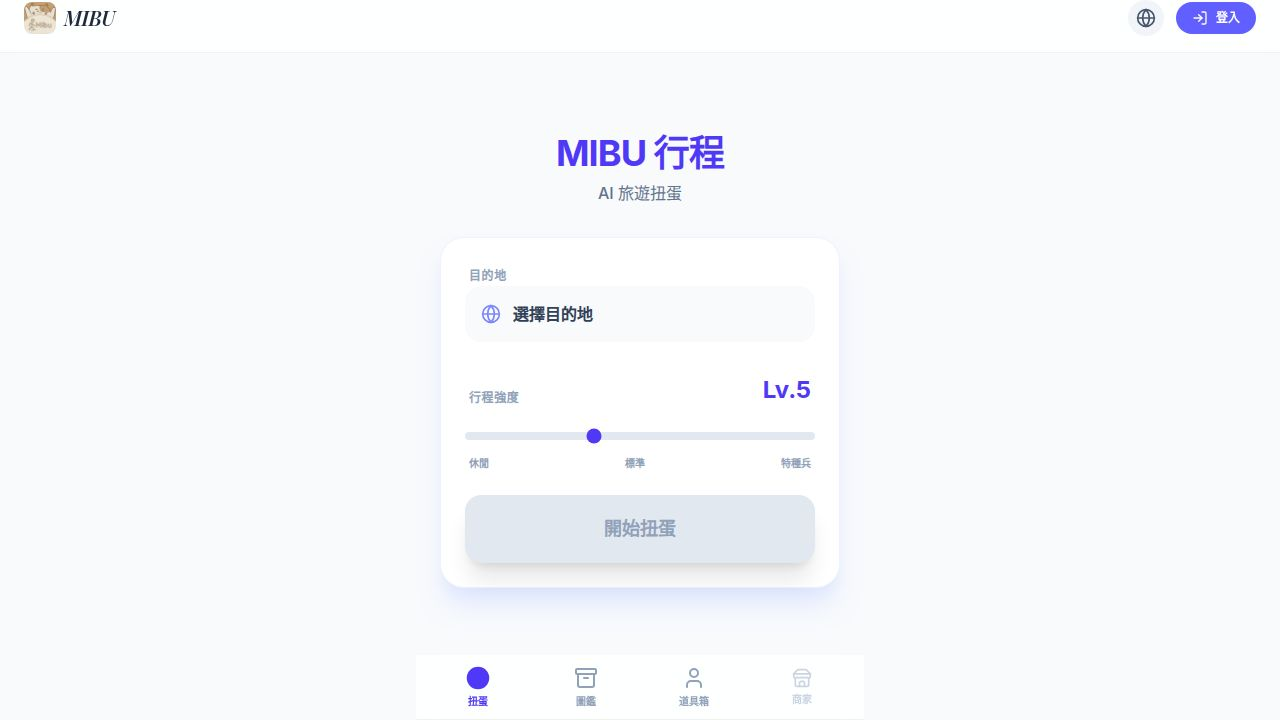
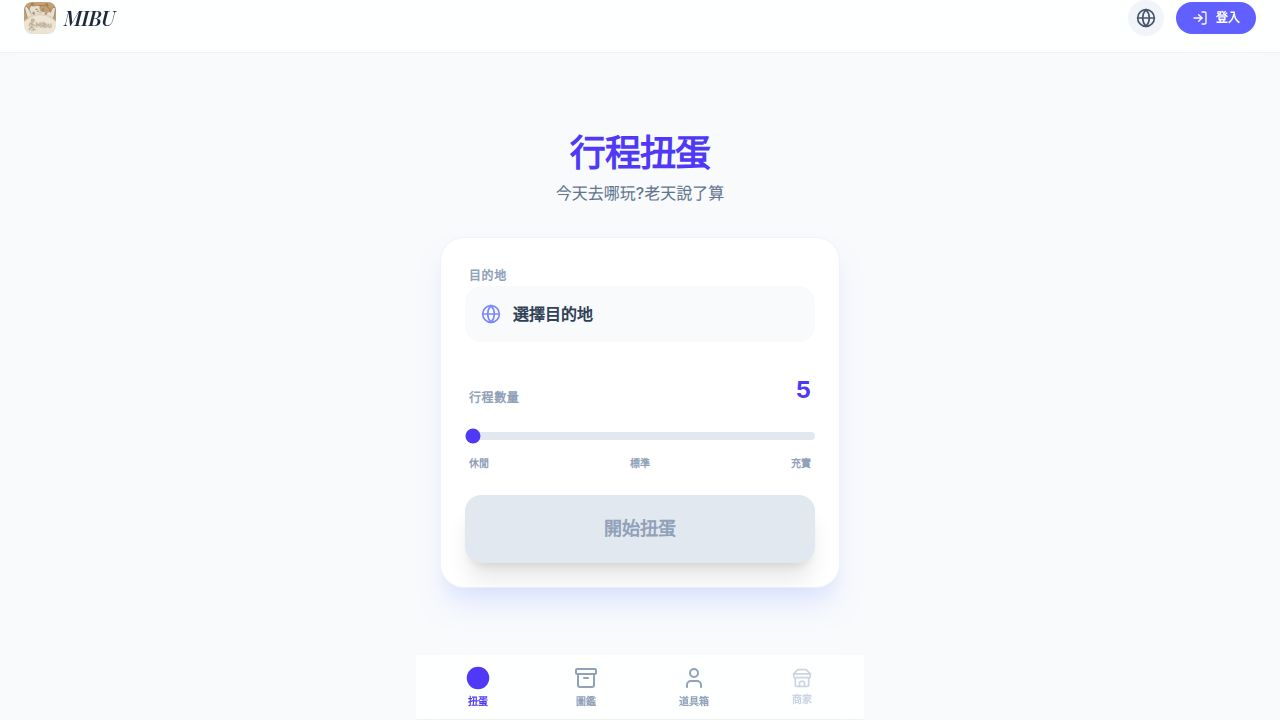
Update trip generator page with new title and search functionality
Refactor client-side components to update app subtitle, modify Google search queries and button text, remove level display, and ensure full content display.

Replit-Commit-Author: Agent
Replit-Commit-Session-Id: 73a976db-2ef8-459e-a913-7e0db93fce9d
Replit-Commit-Checkpoint-Type: full_checkpoint
Replit-Commit-Event-Id: 380fa3d4-4293-4dad-97e2-3b168c9b1e0a
Replit-Commit-Screenshot-Url: https://storage.googleapis.com/screenshot-production-us-central1/591965a7-25f6-479c-b527-3890b1193c21/73a976db-2ef8-459e-a913-7e0db93fce9d/64fPLFX
Replit-Helium-Checkpoint-Created: true

diff --git a/client/src/components/ResultList.tsx b/client/src/components/ResultList.tsx
@@ -24,7 +24,7 @@ export const ResultList: React.FC<ResultListProps> = ({ data, language, onResear
       <div className="mb-6 flex justify-between items-end">
         <div>
           <h2 className="text-3xl font-black text-slate-800">{getContent(data.meta.locked_district, language)}</h2>
-          <p className="text-slate-500 font-medium">{t.tripLevel.replace('{level}', data.meta.user_level.toString())}</p>
+          <p className="text-slate-500 font-medium">{data.meta.city}</p>
         </div>
         <div className="flex items-center gap-2">
           <div className="bg-indigo-100 text-indigo-700 px-3 py-1 rounded-full text-xs font-bold">
@@ -77,21 +77,21 @@ export const ResultList: React.FC<ResultListProps> = ({ data, language, onResear
                  {getContent(item.place_name, language)}
                </h3>
                
-               <p className="text-sm text-slate-500 line-clamp-2 mb-3">
+               <p className="text-sm text-slate-500 mb-3">
                  {getContent(item.description, language)}
                </p>
 
                {/* Google Search Button */}
                {(item.verified_name || item.place_name) && (
                  <a
-                   href={`https://www.google.com/search?q=${encodeURIComponent((item.verified_name || getContent(item.place_name, language)) + ' ' + (item.verified_address || item.city || ''))}`}
+                   href={`https://www.google.com/maps/search/?api=1&query=${encodeURIComponent(item.verified_name || getContent(item.place_name, language))}`}
                    target="_blank"
                    rel="noopener noreferrer"
                    className="inline-flex items-center gap-1.5 bg-blue-500 hover:bg-blue-600 text-white px-3 py-1.5 rounded-full text-xs font-bold transition-colors mb-3"
                    data-testid={`button-search-${item.id}`}
                  >
                    <Search className="w-3.5 h-3.5" />
-                   {language === 'zh-TW' ? '搜尋' : language === 'ja' ? '検索' : language === 'ko' ? '검색' : 'Search'}
+                   {language === 'zh-TW' ? '在GOOGLE中導航' : language === 'ja' ? 'Googleで案内' : language === 'ko' ? 'Google에서 길찾기' : 'Navigate in Google'}
                  </a>
                )}
 

diff --git a/client/src/components/InputForm.tsx b/client/src/components/InputForm.tsx
@@ -71,7 +71,7 @@ export const InputForm: React.FC<InputFormProps> = ({ state, onUpdate, onSubmit 
         <div className="space-y-4 pt-2">
            <div className="flex justify-between items-end px-1">
              <label className="text-xs font-bold text-slate-400 uppercase tracking-wider">{t.intensity}</label>
-             <span className="text-2xl font-black text-indigo-600">Lv.{state.level}</span>
+             <span className="text-2xl font-black text-indigo-600">{state.level}</span>
            </div>
            <input
              type="range"

diff --git a/client/src/constants.ts b/client/src/constants.ts
@@ -101,7 +101,7 @@ export const TRANSLATIONS = {
     paymentSuccess: '付款成功！您已升級為 Premium 商家。',
     // UI
     appTitle: '行程扭蛋',
-    appSubtitle: 'AI 旅遊扭蛋',
+    appSubtitle: '今天去哪玩?老天說了算',
     destination: '目的地',
     selectDestination: '選擇目的地',
     city: '城市',
